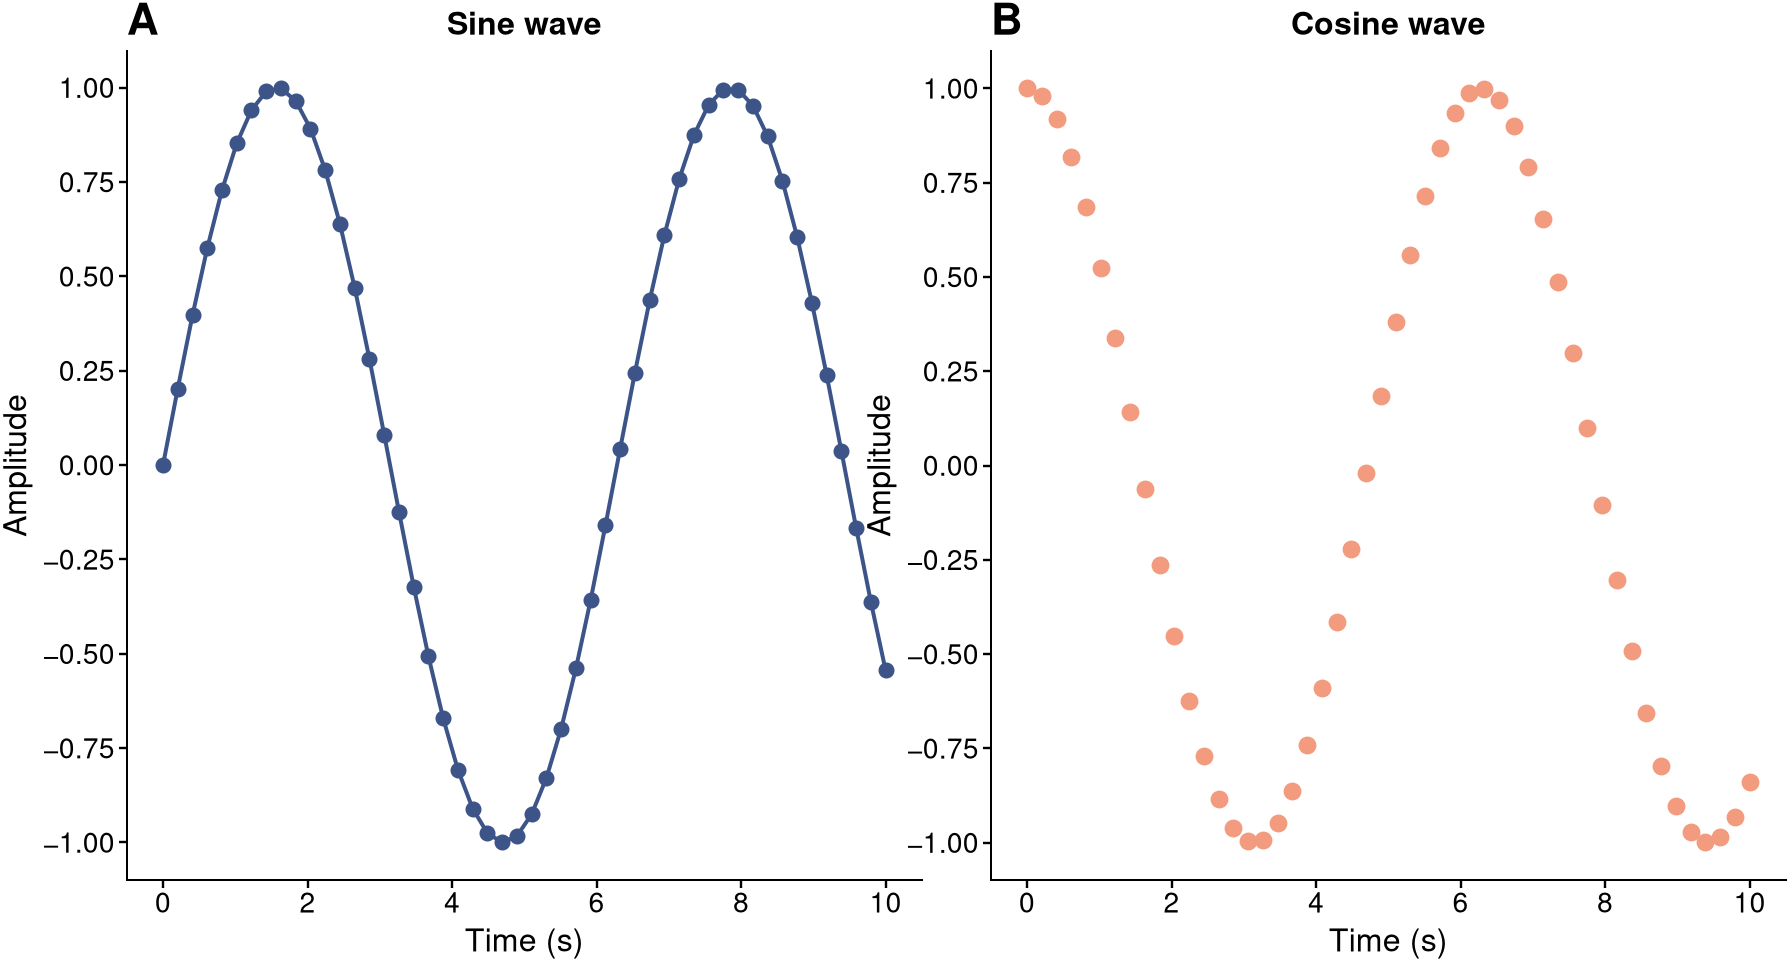
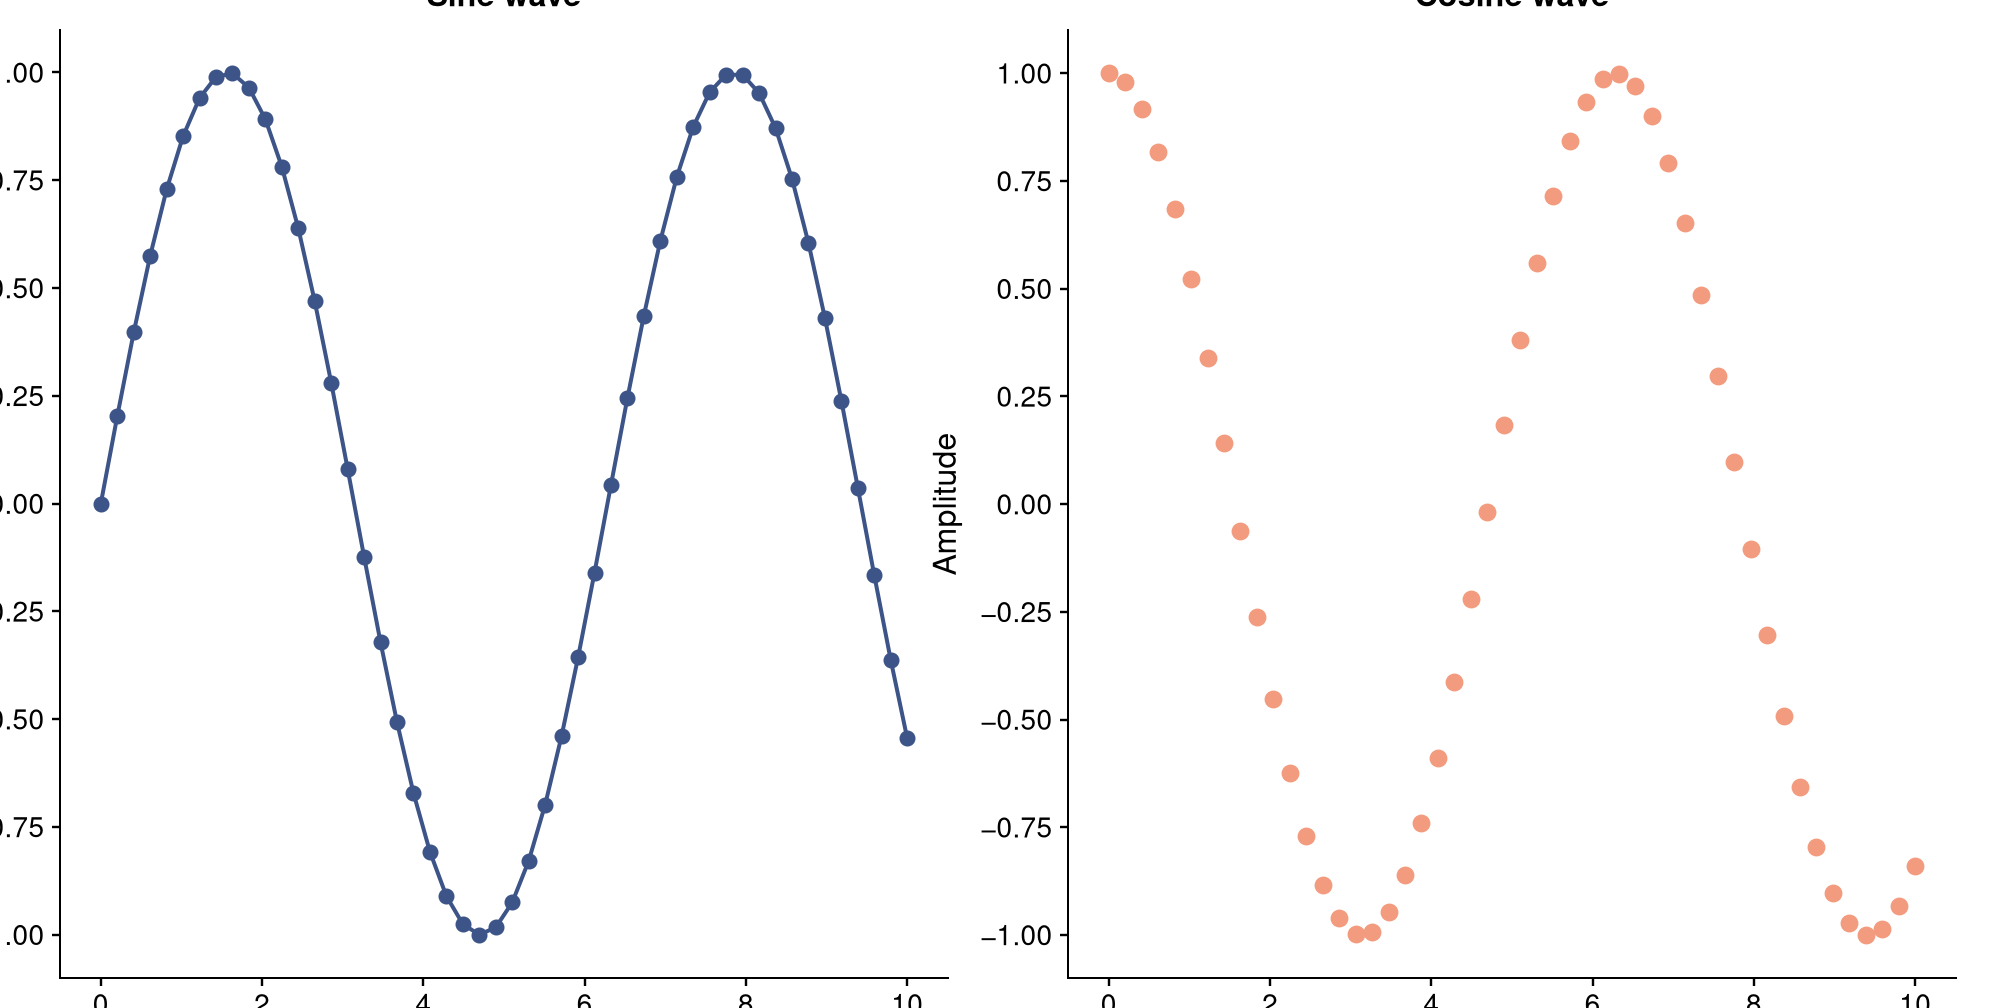
Fix overlapping labels: bigger figures, wider gap (0.06), larger pads, panel labels via ax.text() instead of set_title

diff --git a/tests/test_layout.py b/tests/test_layout.py
@@ -46,35 +46,42 @@ def test_estimate_figsize_2x2_grid() -> None:
     assert h == pytest.approx(6.0)
 
 
+def _get_labels(axes):
+    """Extract panel label text from axes."""
+    labels = []
+    for ax in axes:
+        texts = [t.get_text() for t in ax.texts if t.get_text().strip()]
+        labels.append(texts[-1] if texts else "")
+    return labels
+
+
 def test_add_labels_letters() -> None:
     fig, axes = plt.subplots(1, 3)
     add_labels(axes, True)
-    titles = [ax.get_title(loc="left") for ax in axes]
-    assert titles == ["A", "B", "C"]
+    assert _get_labels(axes) == ["A", "B", "C"]
     plt.close(fig)
 
 
 def test_add_labels_prefix() -> None:
     fig, axes = plt.subplots(1, 3)
     add_labels(axes, "S")
-    titles = [ax.get_title(loc="left") for ax in axes]
-    assert titles == ["S1", "S2", "S3"]
+    assert _get_labels(axes) == ["S1", "S2", "S3"]
     plt.close(fig)
 
 
 def test_add_labels_disabled() -> None:
     fig, axes = plt.subplots(1, 2)
     add_labels(axes, False)
-    titles = [ax.get_title(loc="left") for ax in axes]
-    assert titles == ["", ""]
+    assert _get_labels(axes) == ["", ""]
     plt.close(fig)
 
 
 def test_add_labels_more_than_26() -> None:
     fig, axes = plt.subplots(1, 28)
     add_labels(axes, True)
-    assert axes[0].get_title(loc="left") == "A"
-    assert axes[25].get_title(loc="left") == "Z"
-    assert axes[26].get_title(loc="left") == "27"
-    assert axes[27].get_title(loc="left") == "28"
+    labels = _get_labels(axes)
+    assert labels[0] == "A"
+    assert labels[25] == "Z"
+    assert labels[26] == "27"
+    assert labels[27] == "28"
     plt.close(fig)

diff --git a/tests/test_compose.py b/tests/test_compose.py
@@ -120,27 +120,33 @@ def test_render_returns_figure() -> None:
     plt.close(fig)
 
 
+def _get_labels(axes):
+    """Extract panel label text from axes."""
+    labels = []
+    for ax in axes:
+        texts = [t.get_text() for t in ax.texts if t.get_text().strip()]
+        labels.append(texts[-1] if texts else "")
+    return labels
+
+
 def test_render_labels_default() -> None:
     a, b = _make_panel("a"), _make_panel("b")
     fig = (a | b).render(labels=True)
-    titles = [ax.get_title(loc="left") for ax in fig.axes]
-    assert titles == ["A", "B"]
+    assert _get_labels(fig.axes) == ["A", "B"]
     plt.close(fig)
 
 
 def test_render_no_labels() -> None:
     a, b = _make_panel("a"), _make_panel("b")
     fig = (a | b).render(labels=False)
-    titles = [ax.get_title(loc="left") for ax in fig.axes]
-    assert titles == ["", ""]
+    assert _get_labels(fig.axes) == ["", ""]
     plt.close(fig)
 
 
 def test_render_prefix_labels() -> None:
     a, b = _make_panel("a"), _make_panel("b")
     fig = (a | b).render(labels="S")
-    titles = [ax.get_title(loc="left") for ax in fig.axes]
-    assert titles == ["S1", "S2"]
+    assert _get_labels(fig.axes) == ["S1", "S2"]
     plt.close(fig)
 
 

diff --git a/examples/_style.py b/examples/_style.py
@@ -21,9 +21,9 @@ _RC_PARAMS: dict[str, object] = {
     "font.size": 8,
     "axes.titlesize": 8,
     "axes.titleweight": "bold",
-    "axes.titlepad": 4,
+    "axes.titlepad": 6,
     "axes.labelsize": 8,
-    "axes.labelpad": 2,
+    "axes.labelpad": 4,
     "axes.labelcolor": "black",
     "axes.linewidth": 0.5,
     "axes.edgecolor": "black",
@@ -40,8 +40,8 @@ _RC_PARAMS: dict[str, object] = {
     "ytick.major.size": 2,
     "xtick.major.width": 0.6,
     "ytick.major.width": 0.6,
-    "xtick.major.pad": 1,
-    "ytick.major.pad": 1,
+    "xtick.major.pad": 2,
+    "ytick.major.pad": 2,
     "xtick.alignment": "center",
     "ytick.alignment": "center_baseline",
     "legend.fontsize": 7,
@@ -54,8 +54,7 @@ _RC_PARAMS: dict[str, object] = {
     "lines.markersize": 3,
     "savefig.dpi": 288,
     "savefig.transparent": True,
-    "savefig.bbox": "tight",
-    "savefig.pad_inches": 0.01,
+    "savefig.pad_inches": 0.1,
     "pdf.fonttype": 42,
     "svg.fonttype": "none",
 }
@@ -113,7 +112,7 @@ def setup_ax(ax) -> None:
         labelsize=7,
         width=0.6,
         length=2,
-        pad=1,
+        pad=2,
     )
     ax.xaxis.label.set_fontsize(8)
     ax.yaxis.label.set_fontsize(8)

diff --git a/src/figpatch/_layout.py b/src/figpatch/_layout.py
@@ -42,4 +42,11 @@ def add_labels(axes: "Sequence[Axes]", labels: bool | str = True) -> None:
             label = string.ascii_uppercase[i] if i < 26 else str(i + 1)
         else:
             label = f"{prefix}{i + 1}"
-        ax.set_title(label, loc="left", fontsize=11, fontweight="bold")
+        ax.text(
+            -0.15, 1.08, label,
+            transform=ax.transAxes,
+            fontsize=11,
+            fontweight="bold",
+            va="bottom",
+            ha="left",
+        )

diff --git a/examples/figure_compose.py b/examples/figure_compose.py
@@ -41,7 +41,7 @@ with style():
     ax3.set_title("Bar")
     setup_ax(ax3)
 
-    composed = fp.compose(fig1, fig2, fig3, direction="h", figsize=(9, 3))
+    composed = fp.compose(fig1, fig2, fig3, direction="h", figsize=(11, 3.5), gap=0.06)
     composed.savefig(OUTPUT / "figure_compose.pdf")
     composed.savefig(OUTPUT / "figure_compose.png", dpi=288, transparent=True)
     plt.close(fig1)

diff --git a/examples/grid_1x6.py b/examples/grid_1x6.py
@@ -73,7 +73,7 @@ def panel_f(ax):
 
 
 with style():
-    fig = (panel_a | panel_b | panel_c | panel_d | panel_e | panel_f).render(figsize=(10, 2.2))
+    fig = (panel_a | panel_b | panel_c | panel_d | panel_e | panel_f).render(figsize=(14, 3), gap=0.06)
     fig.savefig(OUTPUT / "grid_1x6.pdf")
     fig.savefig(OUTPUT / "grid_1x6.png", dpi=288, transparent=True)
     plt.close(fig)

diff --git a/examples/grid_3x3.py b/examples/grid_3x3.py
@@ -107,7 +107,7 @@ with style():
         / (panel_d | panel_e | panel_f)
         / (panel_g | panel_h | panel_i)
     )
-    fig = fig.render(figsize=(7.5, 7.5))
+    fig = fig.render(figsize=(10, 10), gap=0.06)
     fig.savefig(OUTPUT / "grid_3x3.pdf")
     fig.savefig(OUTPUT / "grid_3x3.png", dpi=288, transparent=True)
     plt.close(fig)

diff --git a/examples/irregular_3_2_3.py b/examples/irregular_3_2_3.py
@@ -99,7 +99,7 @@ with style():
         / (panel_d | panel_e)
         / (panel_f | panel_g | panel_h)
     )
-    fig = fig.render(figsize=(8, 8))
+    fig = fig.render(figsize=(10, 10), gap=0.06)
     fig.savefig(OUTPUT / "irregular_3_2_3.pdf")
     fig.savefig(OUTPUT / "irregular_3_2_3.png", dpi=288, transparent=True)
     plt.close(fig)

diff --git a/examples/grid_2x3.py b/examples/grid_2x3.py
@@ -81,7 +81,7 @@ def panel_f(ax):
 
 with style():
     fig = (panel_a | panel_b | panel_c) / (panel_d | panel_e | panel_f)
-    fig = fig.render(figsize=(8, 5))
+    fig = fig.render(figsize=(10, 6), gap=0.06)
     fig.savefig(OUTPUT / "grid_2x3.pdf")
     fig.savefig(OUTPUT / "grid_2x3.png", dpi=288, transparent=True)
     plt.close(fig)

diff --git a/examples/complex_layout.py b/examples/complex_layout.py
@@ -51,7 +51,7 @@ def panel_c(ax):
 
 
 with style():
-    fig = ((panel_a | panel_b) / panel_c).render(figsize=(6, 5))
+    fig = ((panel_a | panel_b) / panel_c).render(figsize=(7, 6), gap=0.06)
     fig.savefig(OUTPUT / "complex_layout.pdf")
     fig.savefig(OUTPUT / "complex_layout.png", dpi=288, transparent=True)
     plt.close(fig)

diff --git a/examples/basic_compose.py b/examples/basic_compose.py
@@ -39,7 +39,7 @@ def panel_b(ax):
 
 
 with style():
-    fig = (panel_a | panel_b).render(figsize=(6, 3))
+    fig = (panel_a | panel_b).render(figsize=(7, 3.5), gap=0.06)
     fig.savefig(OUTPUT / "basic_compose.pdf")
     fig.savefig(OUTPUT / "basic_compose.png", dpi=288, transparent=True)
     plt.close(fig)
